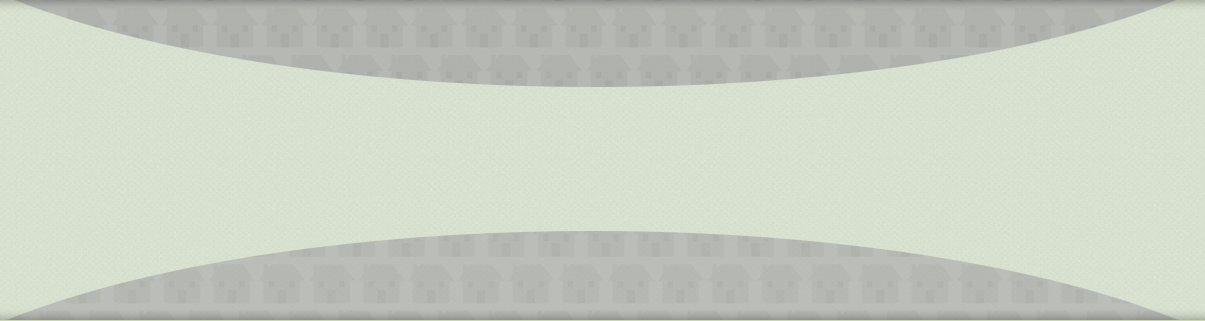
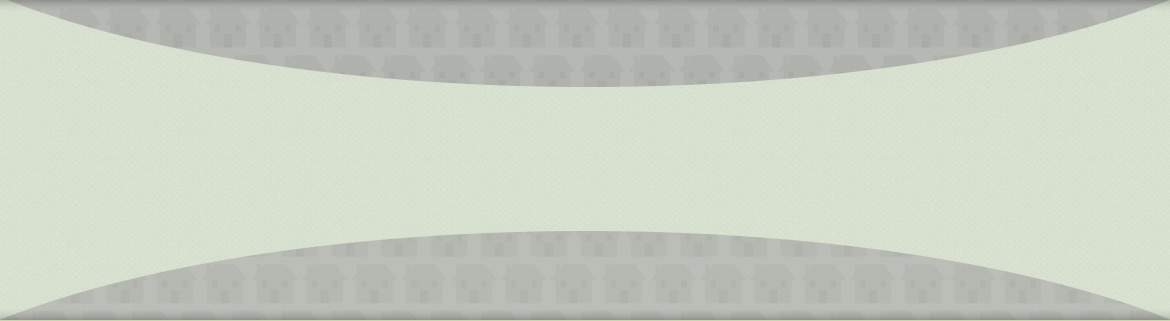
free trial 3

diff --git a/style.css b/style.css
@@ -82,7 +82,9 @@ padding:0;
 .freetrial {
 	background-image: url('images/freetrial.png');
 	height: 323px;
-	width: 1205px;
+	width: 1170px;
+	margin-right: auto;
+	margin-left: auto;
 }
 .whiteblock {
 	height: 304px;
